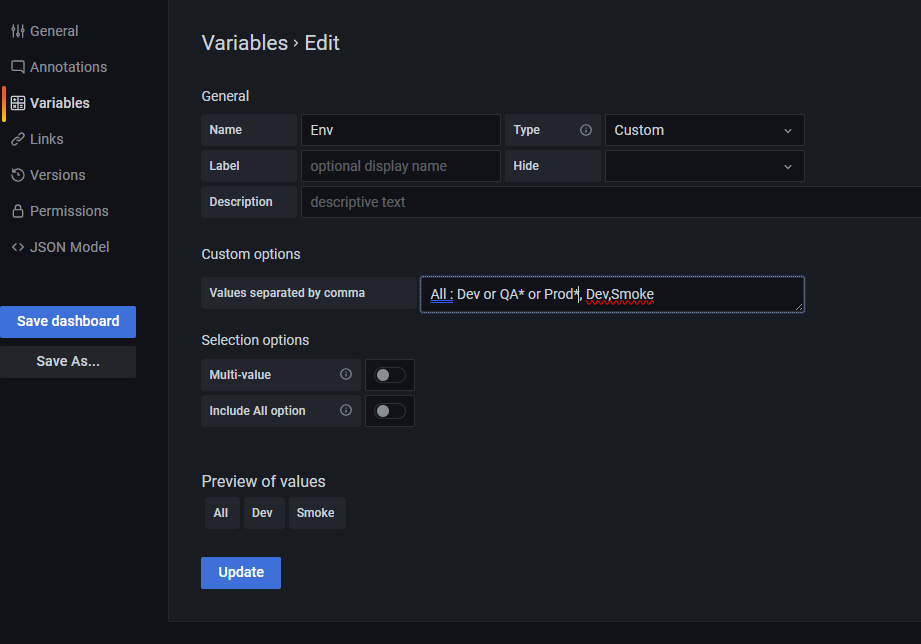
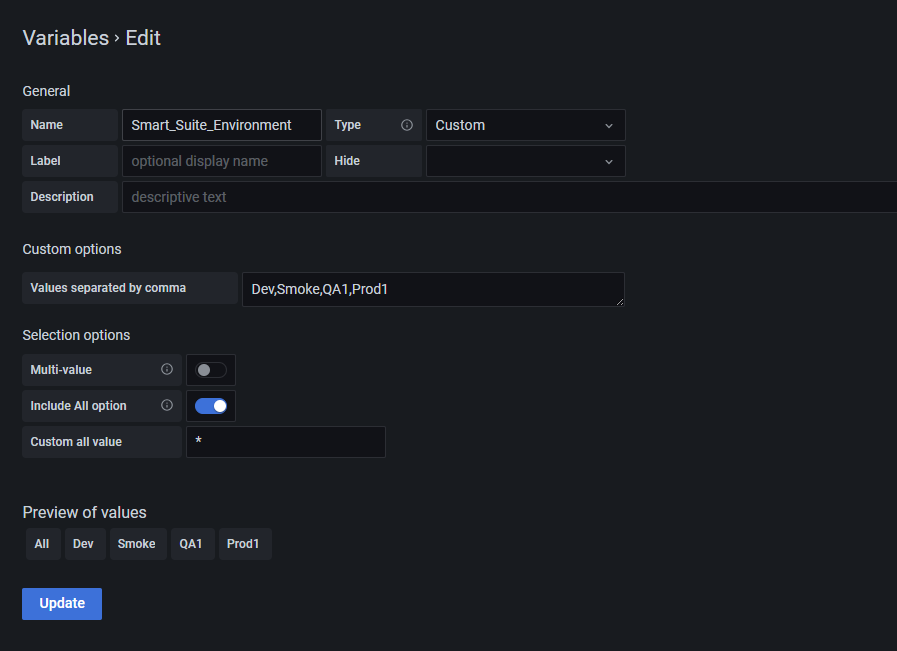
Update

diff --git a/Grafana-log/log-aggregation-setup.md b/Grafana-log/log-aggregation-setup.md
@@ -16,8 +16,8 @@ So, I am proceeding with the following steps:
 
 To save spark text log, we need to pass it to filebeat-logstash-es cluster. However, if we pass all lines in the spark log or archive log files to logstash using filebeat, a lot of traffic will be generated.
 So, instead of filebeat, I implemented a python script as agent to read only error logs and pass them to logstash.
-- ./push_to_logstash.sh start (This script will be run as agent to send text logs to logstash using TCP socket)
-- Then, The Grafana dashboard will read the ES log index in ES cluster and show ERROR logs in near real time.
+- `./Grafana-log/push_to_logstash.sh start` (This script will be run as agent to send text logs to logstash using TCP socket)
+- Then, The Grafana dashboard(Variable with "All" Options: https://stackoverflow.com/questions/72316944/grafana-variable-return-all-elastic-documents-when-selecting-all-and-the-attr, sample : * OR (NOT _exists_:provision_org.keyword)) will read the ES log index in ES cluster and show ERROR logs in near real time.
 
 
 #### Setup/Run Logstash-Agent
